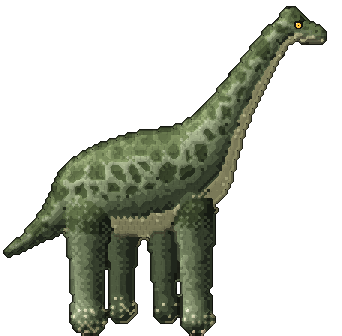
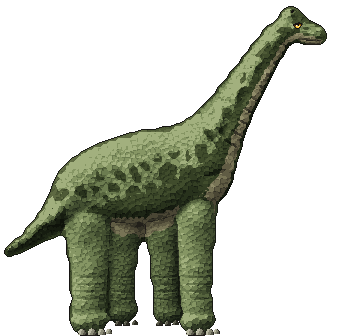
Brachiosaur painted in HD; its neck bends down to eat without a hump
Painted over its drawing: the grey-green hide with its net of dark
blotches, a heavy body, the long neck with ridged muscles down its upper
side and creases across the tan throat, folded where it meets the
withers, pillar legs wrinkled round and broad elephant feet with pale
nails, the crested head.

The rig bends the neck and the head about the top of the neck now, over
an under-layer of the withers and the chest, so the lowered neck folds
over its throat instead of sweeping a hump and a fin along its top. Its
near legs take only their own flank as they swing, not the chest.

Changed region(s): [[0.0, 0.0, 0.9649, 1.0]]

diff --git a/internal/dinopaint/brachio.go b/internal/dinopaint/brachio.go
@@ -1,0 +1,161 @@
+package dinopaint
+
+// The long-neck: dinos/brachio.png, 114 x 112, facing right, a
+// Brachiosaurus. Its rig is "brachio" in internal/client/dinorigs.go: legs
+// near hind (hip 29, 72), far hind (41, 74), far fore (55, 74), near fore
+// (66, 72), each to its knee at row 90 and its foot at 102 to 111.5; the
+// neck bends at its root about (72, 44) and the head about (83.5, 25.5);
+// the mouth opens about (99, 12.5) along the line to (107, 13.5); the tail
+// swings about (22, 66).
+
+var (
+	brachioHoof = []uint32{0x2a2a20, 0x58584a, 0x8a8a76, 0xb8b8a2, 0xdcdcc8}
+	brachioIris = []uint32{0x4a2a04, 0x7a4a06, 0xb07808, 0xdca414, 0xffc838, 0xffe68a}
+)
+
+func init() {
+	Register(brachio())
+	// The withers and the chest under the root of the neck, for when it bends
+	// down to eat.
+	RegisterUnder("brachio", &Under{Parts: []string{"neck", "head"}, Mat: "hide"})
+}
+
+// brachioNeck is the neck's middle line, from its root to the head, and
+// how thick it is there.
+var brachioNeck = [][3]float64{{70, 50, 8.4}, {79, 36, 6}, {87, 22, 5.1}, {93.6, 11.6, 4.3}}
+
+func brachio() *Species {
+	nearHind := Union(
+		Cone(29, 68, 8.4, 30, 90, 6.1),
+		Cone(30, 90, 5.9, 29.5, 101.5, 5.6),
+		Ellipse(30.4, 107.4, 6.9, 4.4, 0), // the foot, round and broad as an elephant's
+	)
+	farHind := Union(
+		Cone(41, 74, 6.4, 41.5, 90, 5),
+		Cone(41.5, 90, 4.8, 41, 100, 4.6),
+		Ellipse(41.6, 104.5, 5.4, 4, 0),
+	)
+	farFore := Union(
+		Cone(55, 74, 6, 54.5, 90, 4.9),
+		Cone(54.5, 90, 4.7, 55, 100, 4.5),
+		Ellipse(55.4, 104.5, 5.2, 4, 0),
+	)
+	nearFore := Union(
+		Cone(66, 67, 7.4, 65.5, 90, 6.1),
+		Cone(65.5, 90, 5.9, 66, 101.5, 5.6),
+		Ellipse(66.6, 107.4, 6.8, 4.4, 0),
+	)
+	body := Blend(4,
+		Path([3]float64{1.5, 83.6, 0.9}, [3]float64{10, 78, 3}, [3]float64{18, 70, 6}, [3]float64{26, 62, 10}), // the tail
+		Ellipse(46, 59, 25, 15.4, -0.1), // the barrel of the body
+		Ellipse(70, 57, 8.5, 11.5, 0),   // the chest
+		Ellipse(66, 49, 8.5, 9.5, 0),    // the withers, under the root of the neck
+	)
+	neck := Blend(2,
+		Path(brachioNeck...),
+		Ellipse(70, 50, 8, 7, -1), // its root, into the shoulders
+	)
+	head := Blend(1.5,
+		Poly(92.4, 6.6, 94.4, 3.2, 97, 2.3, 99.6, 3.1, 101.6, 5.5, 104.6, 8.6, 107.5, 10.6, 107.7, 13.4, 106, 15.1, 100, 15.3, 96, 14.7, 93.4, 13.2),
+		Circle(94.5, 11, 4),
+	)
+	return &Species{
+		Name:        "brachio",
+		GuideDetail: 0.35,
+		Ink:         32,
+		Materials: []Material{
+			{Name: "hide", Seeds: []uint32{0x7b8c5e, 0x94a474, 0xa2ae8a, 0xbcc6a4, 0x869370, 0x63734a, 0x6a7757},
+				Ramp:   []uint32{0x161c12, 0x222a1a, 0x303a24, 0x424e30, 0x56643e, 0x6c7c50, 0x869664, 0xa2b07e},
+				Region: Poly(15, 99, 80, 99, 80, 113, 15, 113), Only: []string{"tan"}}, // the guide's nails are painted again
+			// The dark mottling, a net of blotches as a giraffe's.
+			{Name: "patch", Seeds: []uint32{0x4c5a38, 0x4e5a40, 0x353e2c, 0x374229, 0x404734, 0x20261c, 0x242c1c},
+				Ramp: []uint32{0x0e120a, 0x161c10, 0x1e2616, 0x28321c, 0x343f24, 0x404c2c, 0x4e5a36, 0x5e6a42}, Smooth: 0.6, Bias: 0.1},
+			{Name: "tan", Seeds: []uint32{0x9f9e78, 0x7a7958, 0xc2c09a, 0xa09276, 0x5f5f48, 0x575742, 0xdddbb8, 0xeeecd2},
+				Ramp: []uint32{0x22201a, 0x343226, 0x4a4634, 0x605c44, 0x787456, 0x908c6a, 0xa8a482, 0xc0bc9c}, Relief: 0.7, Smooth: 0.5},
+		},
+		Recolor: []Recolor{
+			// Down the legs the drawing's dark is their shading.
+			{Region: Cut(Union(nearHind, farHind, farFore, nearFore), body.Grow(-1.5)), From: []string{"patch"}, To: "hide"},
+		},
+		Parts: []Part{
+			{Name: "farHind", Shape: farHind, Far: true, Round: 4, Scale: 0.85, Muscles: []Muscle{
+				Mu(41, 79, 4.8, 6, 0, 1.2),
+			}},
+			{Name: "farFore", Shape: farFore, Far: true, Round: 4, Scale: 0.85, Muscles: []Muscle{
+				Mu(55, 79, 4.6, 6, 0, 1.2),
+			}},
+			{Name: "body", Shape: body, Round: 10, Muscles: []Muscle{
+				Mu(30, 58, 9, 9, 0, 1.8),      // the hips
+				Mu(48, 56, 12, 9, 0, 1.2),     // the ribs
+				Mu(66, 55, 6, 8, 0.2, 1.6),    // the shoulder
+				Mu(48, 70, 14, 3.4, 0, 0.7),   // the belly
+				Mu(14, 74, 9, 3, -0.6, 1.0),   // the tail
+				Mu(44, 48, 16, 3, -0.08, 0.7), // the long muscles of the back
+				Mu(73, 62, 4, 6.5, 0, 0.8),    // the chest
+			}},
+			{Name: "neck", Shape: neck, Round: 5, Soft: 0.7, Scale: 0.85, Onto: "body", Seam: Below(60, 64, 82, 54), Muscles: []Muscle{
+				// The long muscles down its upper side, then down the throat.
+				Mu(72.8, 41.1, 6.5, 1.9, -1.02, 1.8), Mu(78.7, 31.5, 6.5, 1.9, -1.02, 1.7),
+				Mu(84.6, 21.9, 6, 1.8, -1.02, 1.5), Mu(89.3, 14.2, 4, 1.6, -1.02, 1.2),
+				// the groove between them and the throat's
+				Mu(75.5, 42.8, 7, 0.8, -1.02, -0.9), Mu(81.4, 33.2, 7, 0.8, -1.02, -0.9), Mu(87.3, 23.6, 6, 0.7, -1.02, -0.8),
+				Mu(77.3, 43.9, 6, 1.5, -1.02, 0.9), Mu(83.2, 34.3, 6, 1.5, -1.02, 0.9), Mu(89.1, 24.7, 5, 1.3, -1.02, 0.8),
+				Mu(69, 47, 6, 6, 0, 1.2), // its root, a hump at the withers
+			}},
+			{Name: "head", Shape: head, Round: 2.8, Soft: 0.6, Scale: 0.7, Onto: "neck", Seam: Below(90, 16, 108, 16), Muscles: []Muscle{
+				Mu(97.5, 4.2, 2.4, 1.6, 0, 1.2),   // the crest over the nostrils
+				Mu(98, 9.6, 2.4, 2, 0, 0.8),       // the cheek
+				Mu(104.4, 11.4, 2.6, 1.6, 0, 0.7), // the snout
+			}},
+			{Name: "nearHind", Shape: nearHind, Round: 5.6, Onto: "body", Seam: Below(15, 74, 40, 74), Muscles: []Muscle{
+				Mu(29, 75, 6.4, 8, 0, 2.0),        // the thigh
+				Mu(29.8, 90, 3.4, 2.6, 0, 0.7),    // the knee
+				Mu(29.8, 96, 3.6, 4, 0, 0.6),      // the shin
+				Mu(30.4, 106.6, 5.6, 2.8, 0, 0.8), // the foot
+			}},
+			{Name: "nearFore", Shape: nearFore, Round: 5.6, Onto: "body", Seam: Below(56, 75, 76, 72), Muscles: []Muscle{
+				Mu(66, 74, 6, 7.5, 0, 1.8),     // the upper arm
+				Mu(65.6, 90, 3.4, 2.6, 0, 0.7), // the elbow
+				Mu(65.8, 96, 3.6, 4, 0, 0.6),   // the forearm
+				Mu(66.6, 106.6, 5.6, 2.8, 0, 0.8),
+			}},
+		},
+		Skin:    Skin{Flank: 2.3, Back: 3.4, Belly: 1.7, BackDepth: 5, BellyDepth: 5, Seed: 61},
+		Folds:   brachioFolds(),
+		Details: brachioDetails,
+	}
+}
+
+// brachioFolds are the creases in its skin: across the throat all down the
+// neck, thickest at its root where it bends, round the legs as an
+// elephant's, and the line of the mouth.
+func brachioFolds() []Fold {
+	f := []Fold{
+		{Pts: []float64{99, 12.8, 103, 13.2, 107, 13.6}, N: 1, Depth: 1.6}, // the mouth
+	}
+	// Across the throat: short creases from the middle of the neck to its
+	// lower edge, every few pixels up it.
+	for i, c := range [][2]float64{{74, 46}, {76.2, 42.6}, {78.4, 39.1}, {80.6, 35.5}, {83, 31.8}, {85.4, 28}, {87.8, 24.2}, {90.2, 20.4}, {92.4, 16.8}} {
+		w := 6.2 - 0.35*float64(i)
+		f = append(f, Fold{Pts: []float64{c[0] + 0.85*0.6, c[1] + 0.53*0.6, c[0] + 0.85*w, c[1] + 0.53*w}, N: 1, Depth: 1.5 - 0.06*float64(i)})
+	}
+	// Where it bends at the root, folds over the shoulder.
+	f = append(f, Fold{Pts: []float64{67.5, 43.5, 70.5, 46.2, 73, 50}, N: 3, DX: 1.6, DY: -1.2, Depth: 1.0})
+	// The legs, wrinkled round.
+	for _, l := range [][3]float64{{24.5, 35, 92}, {37, 46, 92}, {50.5, 59.5, 92}, {60.5, 71.5, 92}} {
+		f = append(f, Fold{Pts: []float64{l[0], l[2], (l[0] + l[1]) / 2, l[2] + 0.4, l[1], l[2]}, N: 4, DY: 2.4, Depth: 0.8})
+	}
+	return f
+}
+
+func brachioDetails(p *Painter) {
+	p.Eye(EyeSpec{X: 99.2, Y: 8.4, R: 0.85, Iris: brachioIris, Lid: 0.3, Squint: 1.25})
+	p.Nostril(97.6, 3.8, 0.6, 0.4, -0.4)
+	// The nails along the front of the feet: the near ones, then the far.
+	for _, n := range [][3]float64{{27.4, 111.8, 1}, {30.7, 111.9, 1.08}, {33.9, 111.8, 1}, {36.3, 111.4, 0.8}, {63.4, 111.8, 1}, {66.7, 111.9, 1.08}, {69.9, 111.8, 1}, {72.2, 111.4, 0.8}} {
+		p.Nail(n[0], n[1], 3.0*n[2], 2.3*n[2], brachioHoof, -0.1)
+	}
+	for _, n := range [][2]float64{{39.4, 108.5}, {42.2, 108.6}, {45, 108.4}, {53.2, 108.5}, {56, 108.6}, {58.6, 108.4}} {
+		p.Nail(n[0], n[1], 2.3, 1.6, brachioHoof, -0.45)
+	}
+}

diff --git a/internal/client/dinorigs.go b/internal/client/dinorigs.go
@@ -60,13 +60,16 @@ var dinoRigs = map[string]dinoRig{
 	"brachio": {
 		file: "brachio", stride: 3,
 		legs: []rigLimb{
-			hind(21, 35, 80, rigPt{29, 72}, rigPt{30, 90}, rigPt{29.5, 102}, rigPt{32, 111.5}),
+			// the near legs take only their own flank as they swing, not the chest
+			{x0: 21, x1: 35, top: 80, r: 7, j: []rigPt{{29, 72}, {30, 90}, {29.5, 102}, {32, 111.5}}},
 			hind(36, 45, 81, rigPt{41, 74}, rigPt{41.5, 90}, rigPt{41, 100}, rigPt{43, 108.5}),
 			fore(50, 59, 81, rigPt{55, 74}, rigPt{54.5, 90}, rigPt{55, 100}, rigPt{56.5, 108.5}),
-			fore(60, 73, 80, rigPt{66, 72}, rigPt{65.5, 90}, rigPt{66, 102}, rigPt{67.5, 111.5}),
+			{x0: 60, x1: 73, top: 80, r: 7, j: []rigPt{{66, 72}, {65.5, 90}, {66, 102}, {67.5, 111.5}}, fore: true},
 		},
-		head: rigPart{pivot: rigPt{83.5, 25.5}, dir: headUp(0.98), maxY: 60},
-		neck: rigPart{pivot: rigPt{72, 44}, dir: headUp(0.98), maxY: 80},
+		// The neck and the head bend about the top of the neck, so lowered they
+		// fold over the throat and open no gap along the top.
+		head: rigPart{pivot: rigPt{78.8, 25.1}, dir: headUp(0.98), maxY: 60},
+		neck: rigPart{pivot: rigPt{65.5, 39.5}, dir: headUp(0.98), maxY: 80},
 		jaw:  [2]rigPt{{99, 12.5}, {107, 13.5}},
 		gait: walkGait, far: 0b0110,
 		tail: rigPart{pivot: rigPt{22, 66}, dir: math.Pi, maxY: 92},

diff --git a/internal/client/dinorig.go b/internal/client/dinorig.go
@@ -205,15 +205,23 @@ func rigCanvas(r dinoRig, p rigPose) (c *canvas, ax, ay float64, ok bool) {
 	if p.open != 0 && r.jaw[0] != r.jaw[1] {
 		openJaw(w, off(r.jaw[0]), off(r.jaw[1]), shift(r.head), p.open, r.teeth, r.drawnTeeth, kf)
 	}
+	u := dinoUnder(r.file, k) // dinounder.go
+	if u != nil && (u.w != base.w || u.h != base.h) {
+		u = nil
+	}
 	if p.head != 0 {
-		if u := dinoUnder(r.file, k); u != nil && u.w == base.w && u.h == base.h {
-			turnOver(w, shift(r.head), p.head, u, pad, pad+int(bob)) // dinounder.go
+		if u != nil {
+			turnOver(w, shift(r.head), p.head, u, pad, pad+int(bob))
 		} else {
 			turn(w, shift(r.head), p.head, joint)
 		}
 	}
 	if p.neck != 0 && r.neck.maxY != 0 {
-		turn(w, shift(r.neck), p.neck, joint)
+		if u != nil {
+			turnOver(w, shift(r.neck), p.neck, u, pad, pad+int(bob))
+		} else {
+			turn(w, shift(r.neck), p.neck, joint)
+		}
 	}
 	if p.tail != 0 && r.tail.maxY != 0 {
 		turn(w, shift(r.tail), p.tail, 4*kf) // + lifts a tail that points back

diff --git a/internal/client/dinos/hd/gen.py b/internal/client/dinos/hd/gen.py
@@ -23,7 +23,7 @@ HERE = os.path.dirname(os.path.abspath(__file__))
 # teeth: the box of the mouth, where pale pixels are teeth.
 # Painted by hand-written descriptions in Go instead (internal/dinopaint,
 # cmd/dinopaint; see README.md here): this script leaves them alone.
-PAINTED = {'rex', 'trike', 'toro', 'stego', 'thesc'}
+PAINTED = {'rex', 'trike', 'toro', 'stego', 'thesc', 'brachio'}
 
 CFG = {
     'rex':         dict(skin='scale', cell=(5, 4), eyes=[(87, 20, 88, 20)], slit=True, teeth=(82, 31, 105, 34)),

diff --git a/internal/client/dinos/hd/README.md b/internal/client/dinos/hd/README.md
@@ -51,10 +51,13 @@ guide (`dinos/<name>.png`): open it enlarged with a grid to measure.
    the body: a frill over the shoulders. The painter then also paints
    `<name>_under.png`, the body without the head's parts, whole where they
    hid it (add a part, a neck say, that only shows there). When the rig
-   turns the head, only the head's own pixels turn, the body's stay put on
-   either side of the cut, and the painted body shows where the head was
-   (`dinounder.go`) instead of the head swept round to fill the joint.
-   Every pixel of the head must be in a head part's `Shape`.
+   turns the head (or the neck), only the head's own pixels turn, the
+   body's stay put on either side of the cut, and the painted body shows
+   where the head was (`dinounder.go`) instead of the head swept round to
+   fill the joint. Every pixel of the head must be in a head part's
+   `Shape`. With no joint filled, a long neck bends about a pivot on the
+   outside of the bend (the top of the neck, to lower it), so the bend
+   folds over the throat instead of opening a gap.
 7. Paint, add the name to `PAINTED` in `gen.py`, and look:
 
    ```sh
